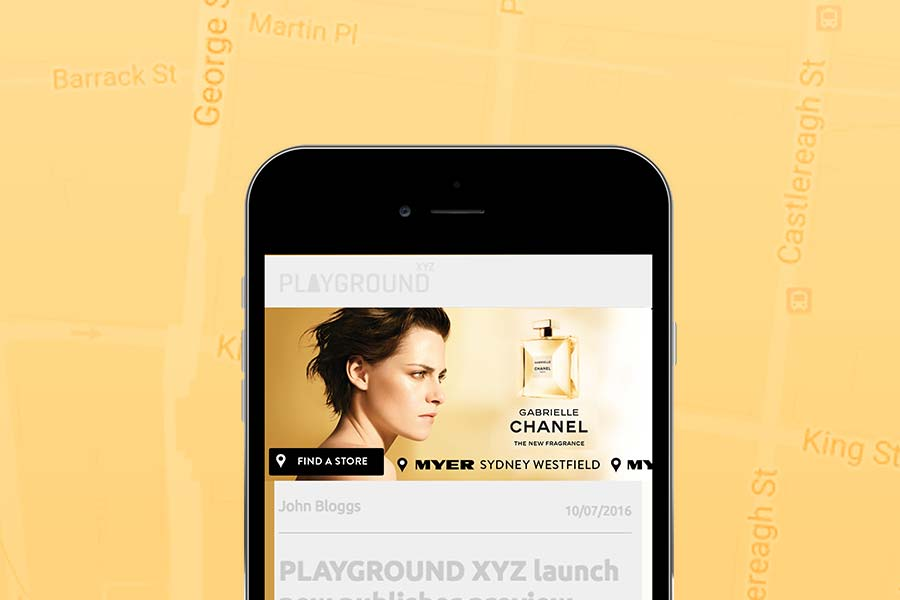
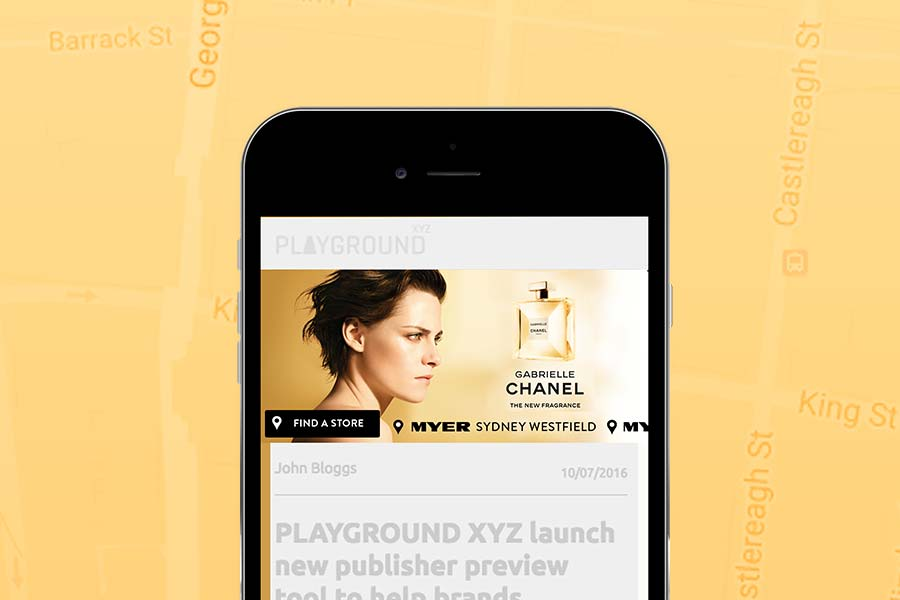
thumbs and heroes done

diff --git a/css/main.css b/css/main.css
@@ -1289,6 +1289,40 @@ button.icon-only svg {
   height: 2rem;
   fill: white;
 }
+.section--steps {
+  padding: 0;
+}
+.section--steps .grid .grid-cell p {
+  padding-left: 2.5em;
+}
+.section--steps .grid .grid-cell h4 {
+  display: flex;
+  margin: 0.2rem 0;
+}
+.section--steps .grid .grid-cell h4:before {
+  font-size: 0.6em;
+  font-weight: 700;
+  display: inline-flex;
+  justify-content: center;
+  align-items: center;
+  margin-top: 0.6em;
+  margin-right: 1em;
+  width: 2em;
+  height: 2em;
+  color: #ffffff;
+  background: #F8B547;
+  border-radius: 50%;
+  padding: 0.3em;
+}
+.section--steps .grid .grid-cell:nth-of-type(1) h4:before {
+  content: '1';
+}
+.section--steps .grid .grid-cell:nth-of-type(2) h4:before {
+  content: '2';
+}
+.section--steps .grid .grid-cell:nth-of-type(3) h4:before {
+  content: '3';
+}
 #__bs_notify__ {
   top: 95% !important;
   right: 10px !important;
@@ -3366,10 +3400,10 @@ li {
 }
 .display--mobile .display__screen {
   position: absolute;
-  width: 75.5%;
-  height: 69%;
-  top: 15%;
-  left: 11.5%;
+  width: 79%;
+  height: 70%;
+  top: 14%;
+  left: 10%;
 }
 @media (max-width: 550px) and (orientation: portrait), (max-width: 480px) and (orientation: landscape) {
   .display--mobile .image-full .display__screen__wrapper {
@@ -3613,5 +3647,8 @@ li {
   z-index: 3;
   background-image: radial-gradient(rgba(0, 0, 0, 0) 60%, rgba(0, 0, 0, 0.5) 100%);
   opacity: 0.1;
+}
+.mobile-store-locator .display--video {
+  background-image: linear-gradient(to right, #F8C680, #f6cd7e);
 }
 /*# sourceMappingURL=../source.map */

diff --git a/less/_type.less b/less/_type.less
@@ -473,3 +473,44 @@ button.icon-only{
 		fill: white;
 	}
 }
+
+.section--steps{
+  padding:0;
+}
+
+.section--steps .grid{
+  .grid-cell{
+    p{
+      padding-left: 2.5em;
+    }
+    h4{
+      display:flex;
+      margin: 0.2rem 0;
+      &:before{
+        font-size: 0.6em;
+        font-weight: 700;
+        display:inline-flex;
+        justify-content: center;
+        align-items: center;
+        // text-align: center;
+        margin-top: 0.6em;
+        margin-right: 1em;
+        width: 2em;
+        height: 2em;
+        color: @white;
+        background: #F8B547;
+        border-radius: 50%;
+        padding: 0.3em;
+      }
+    }
+    &:nth-of-type(1) h4:before{
+      content:'1'
+    }
+    &:nth-of-type(2) h4:before{
+      content:'2'
+    }
+    &:nth-of-type(3) h4:before{
+      content:'3'
+    }
+  }
+}

diff --git a/less/styles.less b/less/styles.less
@@ -1679,10 +1679,10 @@ li{
 
 .display--mobile .display__screen{
 	position: absolute;
-	width: 75.5%;
-	height: 69%;
-	top: 15%;
-	left: 11.5%;
+	width: 79%;
+	height: 70%;
+	top: 14%;
+	left: 10%;
 }
 
 .display--mobile .image-full .display__screen__wrapper{
@@ -1944,5 +1944,14 @@ li{
 		z-index:3;
 		background-image: radial-gradient(rgba(0,0,0,0) 60%, rgba(0,0,0,0.5) 100%);
 		opacity: 0.1;
+	}
+}
+
+.mobile-store-locator{
+	.display--video{
+		background-image: linear-gradient(to right, #F8C680, #f6cd7e);
+		h4,p{
+			// color:white;
+		}
 	}
 }
